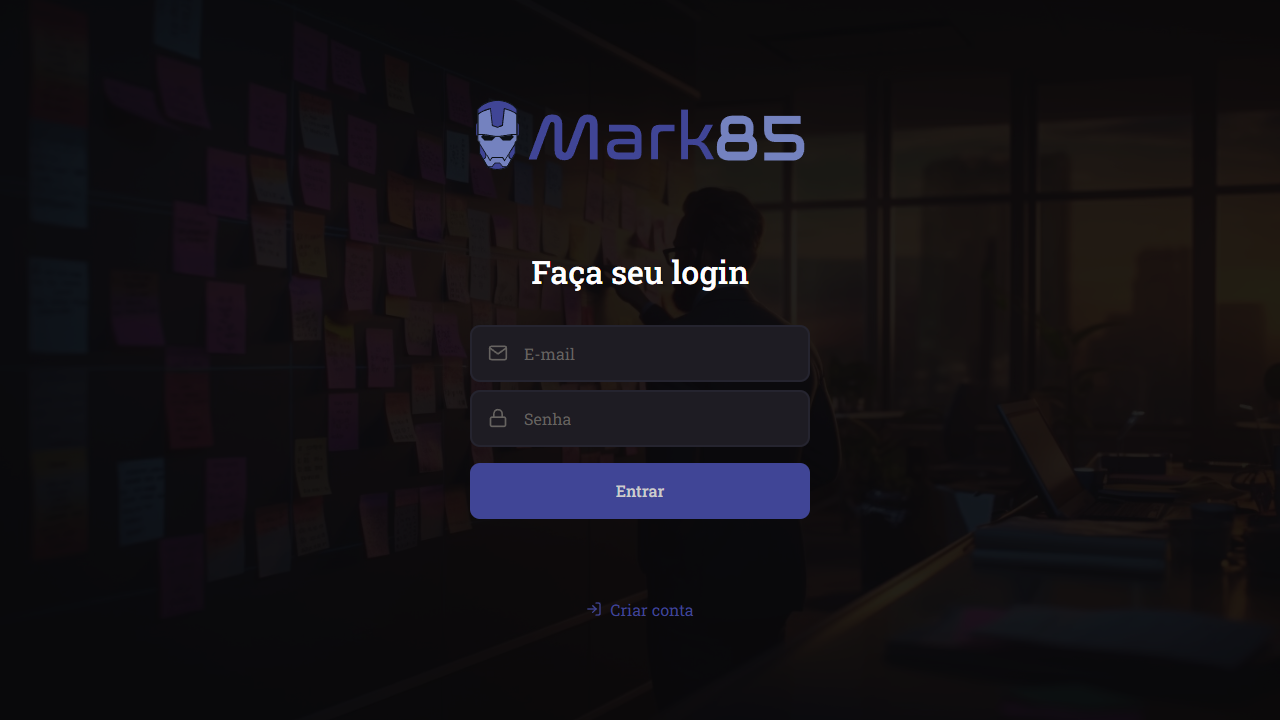
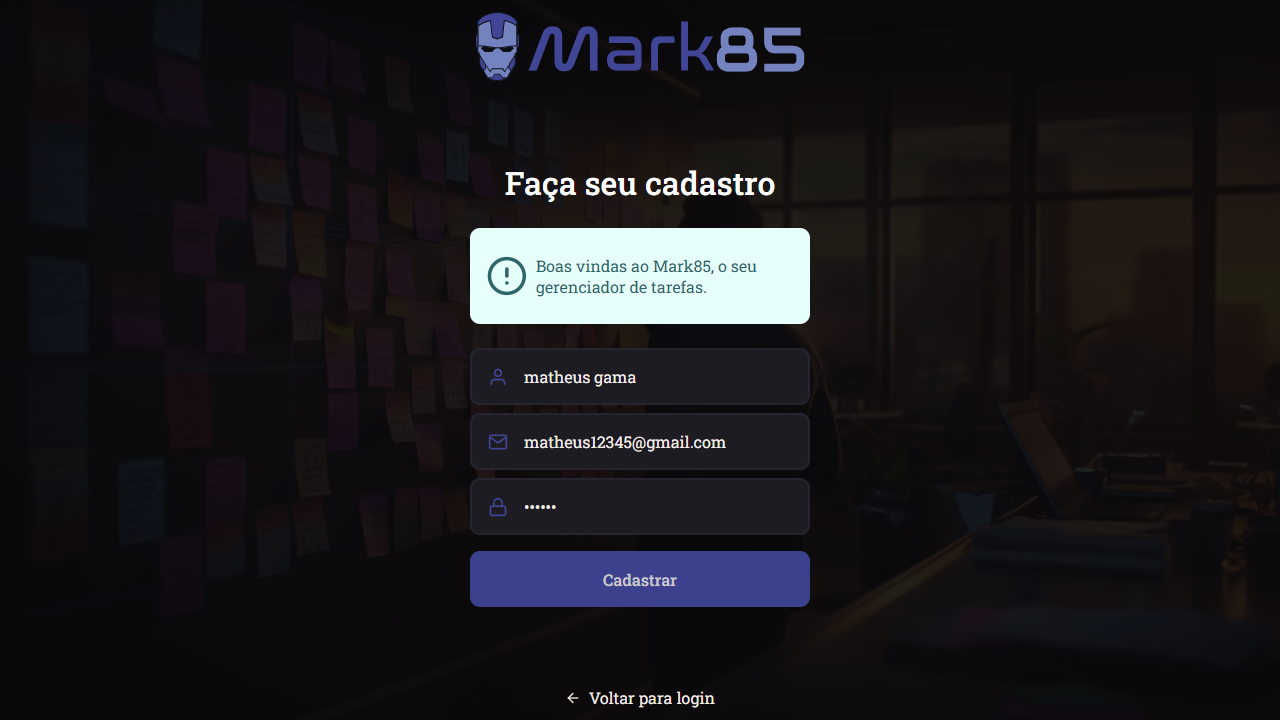
arquivos adicionais

diff --git a/mark85-robot-express/logs/log.html b/mark85-robot-express/logs/log.html
@@ -2074,25 +2074,25 @@ storage = function () {
 window.output = {};
 </script>
 <script type="text/javascript">
-window.output["suite"] = [1,2,3,4,[],[1,0,8589],[],[[5,0,0,[],[1,2392,6141],[[1,6,7,0,0,0,0,0,[1,2393,1907],[[0,8,9,0,10,11,0,12,[1,2393,1322],[[2394,2,13],[2419,2,14],[3715,2,15]]],[0,16,9,0,17,18,0,12,[1,3715,584],[[4299,2,19],[4299,2,20]]]]],[0,21,22,0,23,24,25,0,[1,4300,1],[[4301,2,26]]],[0,27,28,0,0,25,0,0,[1,4301,87],[[0,29,9,0,30,31,0,32,[1,4301,36],[[4302,2,33]]],[0,29,9,0,30,34,0,32,[1,4338,12],[[4339,2,35]]],[0,36,9,0,37,38,0,32,[1,4351,37],[[4351,2,39]]]]],[0,40,22,0,41,42,0,0,[1,4388,4001],[[8388,2,43]]],[8547,2,44],[8553,2,45],[8588,2,46],[2,47,9,0,48,0,0,49,[1,8389,143],[[8532,2,50]]]]]],[],[1,1,0,0]];
+window.output["suite"] = [1,2,3,4,[],[1,0,3771],[],[[5,0,0,[6],[1,709,3010],[[1,7,8,0,0,0,0,0,[1,709,2399],[[0,9,10,0,11,12,0,13,[1,710,1611],[[711,2,14],[736,2,15],[2321,2,16]]],[0,17,10,0,18,19,0,13,[1,2321,786],[[3108,2,20],[3108,2,21]]]]],[0,22,23,0,24,25,26,0,[1,3108,1],[[3109,2,27]]],[0,28,29,0,0,30,0,0,[1,3109,181],[[3290,2,31]]],[0,32,33,0,0,0,0,0,[1,3291,87],[[0,34,10,0,35,36,0,13,[1,3291,36],[[3326,2,37]]],[0,38,10,0,39,40,0,41,[1,3327,31],[[3357,2,42]]],[0,43,10,0,44,45,0,46,[1,3358,20],[[3378,2,47]]]]],[0,48,33,0,0,26,0,0,[1,3378,75],[[0,49,10,0,50,51,0,52,[1,3379,16],[[3380,2,53]]],[0,49,10,0,50,54,0,52,[1,3395,16],[[3396,2,55]]],[0,49,10,0,50,56,0,52,[1,3411,11],[[3411,2,57]]],[0,58,10,0,59,60,0,52,[1,3422,31],[[3423,2,61]]]]],[0,62,33,0,0,63,0,0,[1,3453,115],[[0,64,23,0,65,66,67,0,[1,3454,0],[[3454,2,68]]],[0,38,10,0,39,69,0,41,[1,3454,103],[[3558,2,70]]],[0,43,10,0,44,71,0,46,[1,3558,11],[[3568,2,72]]]]],[3731,2,73],[3736,2,74],[3769,2,75],[2,76,10,0,77,0,0,78,[1,3569,150],[[3719,2,79]]]]]],[],[1,1,0,0]];
 </script>
 <script type="text/javascript">
 window.output["strings"] = [];
 </script>
 <script type="text/javascript">
[2 lines of base64/hex data omitted]
 </script>
 <script type="text/javascript">
-window.output["stats"] = [[{"elapsed":"00:00:06","fail":0,"label":"All Tests","pass":1,"skip":0}],[],[{"elapsed":"00:00:09","fail":0,"id":"s1","label":"Login","name":"Login","pass":1,"skip":0}]];
+window.output["stats"] = [[{"elapsed":"00:00:03","fail":0,"label":"All Tests","pass":1,"skip":0}],[{"elapsed":"00:00:03","fail":0,"label":"cadastro_sucesso","pass":1,"skip":0}],[{"elapsed":"00:00:04","fail":0,"id":"s1","label":"Cadastro","name":"Cadastro","pass":1,"skip":0}]];
 </script>
 <script type="text/javascript">
 window.output["errors"] = [];
 </script>
 <script type="text/javascript">
-window.output["baseMillis"] = 1751307006465;
+window.output["baseMillis"] = 1751566305744;
 </script>
 <script type="text/javascript">
-window.output["generated"] = 8610;
+window.output["generated"] = 3791;
 </script>
 <script type="text/javascript">
 window.output["expand_keywords"] = null;

diff --git a/mark85-robot-express/logs/report.html b/mark85-robot-express/logs/report.html
@@ -1887,22 +1887,22 @@ storage = function () {
 window.output = {};
 </script>
 <script type="text/javascript">
-window.output["suite"] = [1,2,3,4,[],[1,0,8589],[],[[5,0,0,[],[1,2392,6141],[]]],[],[1,1,0,0]];
+window.output["suite"] = [1,2,3,4,[],[1,0,3771],[],[[5,0,0,[6],[1,709,3010],[]]],[],[1,1,0,0]];
 </script>
 <script type="text/javascript">
 window.output["strings"] = [];
 </script>
 <script type="text/javascript">
-window.output["strings"] = window.output["strings"].concat(["*","*Login","*C:\\QAx\\projetos\\mark85-robot-express\\tests\\login.robot","*../tests/login.robot","*<p>cenarios de autencicação do usuário\x3c/p>","*Deve poder logar com um usuario pré cadastrado"]);
+window.output["strings"] = window.output["strings"].concat(["*","*Cadastro","*C:\\QAx\\projetos\\mark85-robot-express\\tests\\cadastro.robot","*../tests/cadastro.robot","*<p>Cenários de testes do cadastro de usuários\x3c/p>","*Deve poder cadastrar um usuário com sucesso","*cadastro_sucesso"]);
 </script>
 <script type="text/javascript">
-window.output["stats"] = [[{"elapsed":"00:00:06","fail":0,"label":"All Tests","pass":1,"skip":0}],[],[{"elapsed":"00:00:09","fail":0,"id":"s1","label":"Login","name":"Login","pass":1,"skip":0}]];
+window.output["stats"] = [[{"elapsed":"00:00:03","fail":0,"label":"All Tests","pass":1,"skip":0}],[{"elapsed":"00:00:03","fail":0,"label":"cadastro_sucesso","pass":1,"skip":0}],[{"elapsed":"00:00:04","fail":0,"id":"s1","label":"Cadastro","name":"Cadastro","pass":1,"skip":0}]];
 </script>
 <script type="text/javascript">
-window.output["baseMillis"] = 1751307006465;
+window.output["baseMillis"] = 1751566305744;
 </script>
 <script type="text/javascript">
-window.output["generated"] = 8610;
+window.output["generated"] = 3791;
 </script>
 <script type="text/javascript">
 window.output["expand_keywords"] = null;
